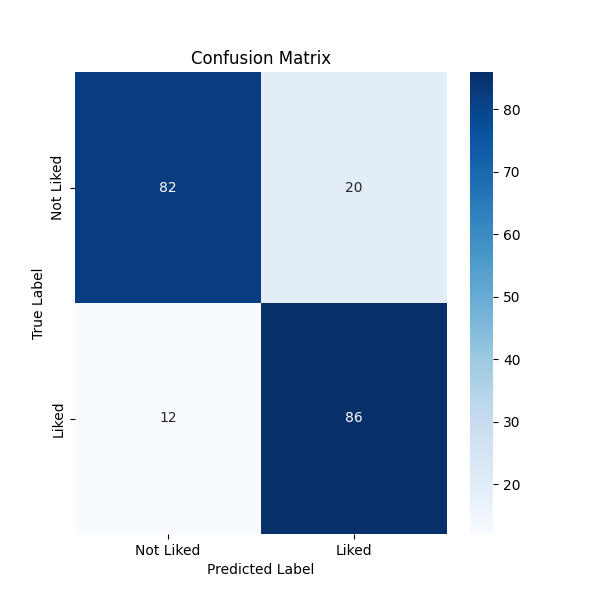
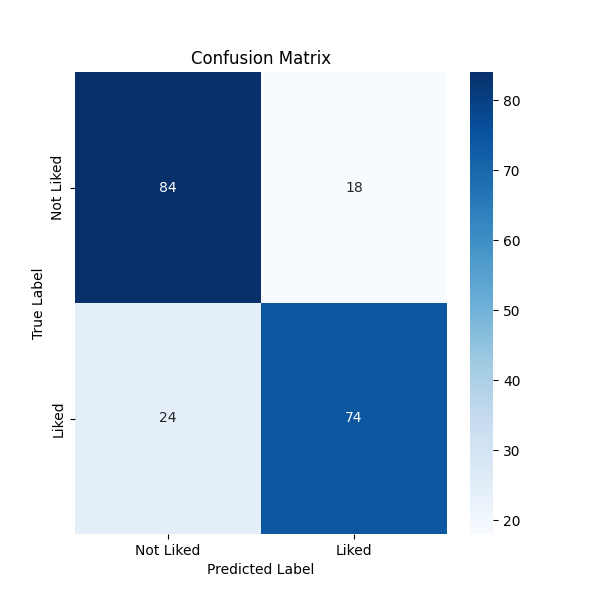
prediction using random forest

diff --git a/src/models/predict_model.py b/src/models/predict_model.py
@@ -12,7 +12,7 @@ dagshub.init(repo_owner='abhishek7260', repo_name='Review_Analysis', mlflow=True
 
 # Set up MLflow tracking URI and experiment
 mlflow.set_tracking_uri("https://dagshub.com/abhishek7260/Review_Analysis.mlflow")
-mlflow.set_experiment("lr review result")
+mlflow.set_experiment("RandomForest Classifier review result")
 
 # Load the test data
 test_data = pd.read_csv("E:\\review_classification\\data\\processed\\processed_test.csv")
@@ -27,33 +27,33 @@ y_test = y_test.values.flatten()
 # Load the pre-trained TfidfVectorizer and model
 tfidf = pickle.load(open("results/tfidf_vectorizer.pkl", "rb"))
 x_test_tfidf = tfidf.transform(x_test).toarray()
-lr_model = pickle.load(open("results/lr_model.pkl", "rb"))
+rfc_model = pickle.load(open("results/rfc_model.pkl", "rb"))
 
 # Start an MLflow run
-with mlflow.start_run(run_name="LogisticRegression_Classifier"):
+with mlflow.start_run(run_name="RandmForest_Classifier"):
     # Predictions
-    lr_predictions = lr_model.predict(x_test_tfidf)
+    rfc_predictions = rfc_model.predict(x_test_tfidf)
 
     # Metrics
-    lr_accuracy = accuracy_score(y_test, lr_predictions)
-    lr_precision = precision_score(y_test, lr_predictions)
-    lr_recall = recall_score(y_test, lr_predictions)
-    lr_conf_matrix = confusion_matrix(y_test, lr_predictions)
+    rfc_accuracy = accuracy_score(y_test, rfc_predictions)
+    rfc_precision = precision_score(y_test, rfc_predictions)
+    rfc_recall = recall_score(y_test, rfc_predictions)
+    rfc_conf_matrix = confusion_matrix(y_test, rfc_predictions)
 
     # Log parameters, metrics, and artifacts
-    mlflow.log_param("model_type", "LogisticRegression")
+    mlflow.log_param("model_type", "RandomForest Classifier")
     mlflow.log_param("max_iter", 1000)
-    mlflow.log_metric("accuracy", lr_accuracy)
-    mlflow.log_metric("precision", lr_precision)
-    mlflow.log_metric("recall", lr_recall)
+    mlflow.log_metric("accuracy", rfc_accuracy)
+    mlflow.log_metric("precision", rfc_precision)
+    mlflow.log_metric("recall", rfc_recall)
 
     # Log the classification report
-    report = classification_report(y_test, lr_predictions, output_dict=True)
+    report = classification_report(y_test, rfc_predictions, output_dict=True)
     mlflow.log_dict(report, "classification_report.json")
 
     # Log confusion matrix as an artifact
     plt.figure(figsize=(6, 6))
-    sns.heatmap(lr_conf_matrix, annot=True, fmt="d", cmap="Blues", xticklabels=["Not Liked", "Liked"], yticklabels=["Not Liked", "Liked"])
+    sns.heatmap(rfc_conf_matrix, annot=True, fmt="d", cmap="Blues", xticklabels=["Not Liked", "Liked"], yticklabels=["Not Liked", "Liked"])
     plt.title("Confusion Matrix")
     plt.ylabel("True Label")
     plt.xlabel("Predicted Label")
@@ -65,11 +65,11 @@ with mlflow.start_run(run_name="LogisticRegression_Classifier"):
     mlflow.log_artifact("processed_test_logged.csv")
 
     # Log the model
-    mlflow.sklearn.log_model(lr_model, "logistic_regression_model")
+    mlflow.sklearn.log_model(rfc_model, "RandomForestClassifier_model")
 
     # Print the results
-    print("\nLogistic Regression Classifier:")
-    print(f"Accuracy: {lr_accuracy:.2f}")
-    print(f"Precision: {lr_precision:.2f}")
-    print(f"Recall: {lr_recall:.2f}")
-    print(classification_report(y_test, lr_predictions))
+    print("\nRandomForest Classifier:")
+    print(f"Accuracy: {rfc_accuracy:.2f}")
+    print(f"Precision: {rfc_precision:.2f}")
+    print(f"Recall: {rfc_recall:.2f}")
+    print(classification_report(y_test, rfc_predictions))

diff --git a/src/models/train_model.py b/src/models/train_model.py
@@ -2,6 +2,7 @@ import pandas as pd
 import numpy as np
 from sklearn.feature_extraction.text import TfidfVectorizer
 from sklearn.linear_model import LogisticRegression
+from sklearn.ensemble import RandomForestClassifier
 import pickle
 
 # Load data
@@ -16,8 +17,8 @@ tfidf = TfidfVectorizer(max_features=5000)
 x_train_tfidf = tfidf.fit_transform(x_train).toarray()
 
 # Train Logistic Regression model
-lr_model = LogisticRegression(random_state=42, max_iter=1000)
-lr_model.fit(x_train_tfidf, y_train)
+rfc_model = RandomForestClassifier(random_state=42, n_estimators=100,max_depth=2)
+rfc_model.fit(x_train_tfidf, y_train)
 
-pickle.dump(lr_model,open("results/lr_model.pkl","wb"))
+pickle.dump(rfc_model,open("results/rfc_model.pkl","wb"))
 pickle.dump(tfidf, open("results/tfidf_vectorizer.pkl", "wb"))
